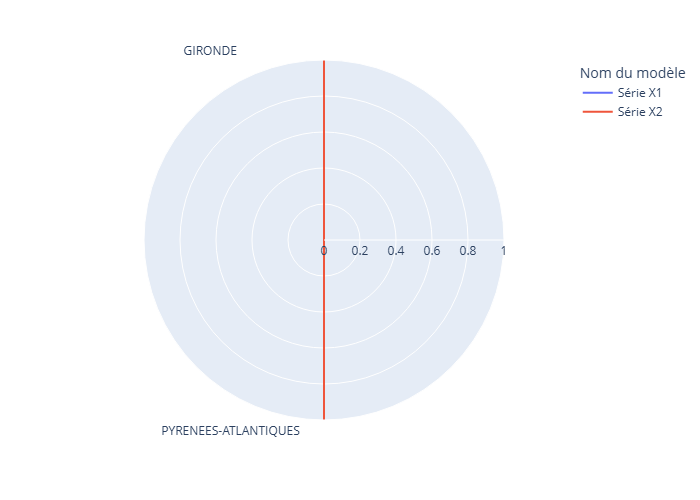
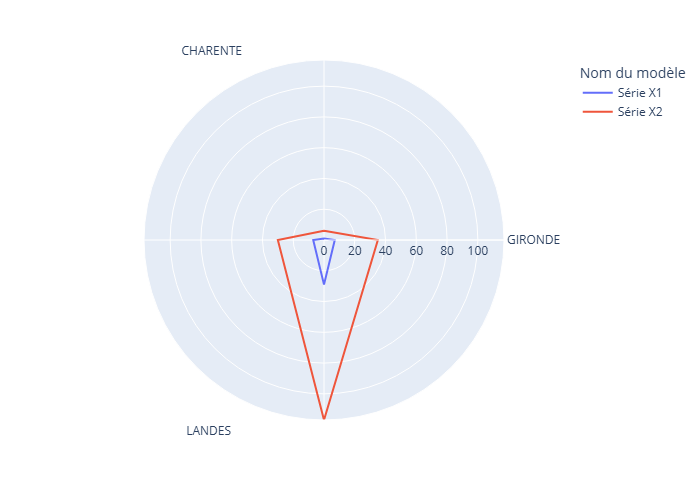
fix choosenGraph

diff --git a/pythonScripts/choosenGraph.py b/pythonScripts/choosenGraph.py
@@ -26,11 +26,7 @@ def getData():
     return X1, X2
 
 def choose():
-
-    print(f"Args reçus: {sys.argv}", file=sys.stderr)
-    graph_name = sys.argv[4]
-    print(f"graph_name: '{graph_name}'", file=sys.stderr)
-    print(f"chooseName[1]: '{chooseName[1]}'", file=sys.stderr)
+    graph_name = sys.argv[4]    
     
     X1, X2 = getData()
     
